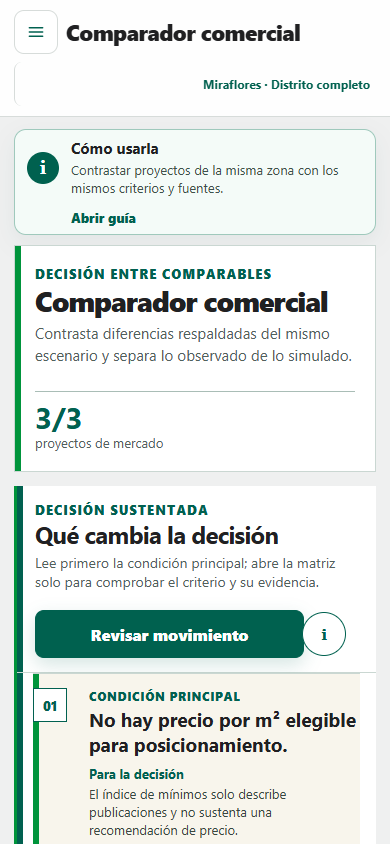
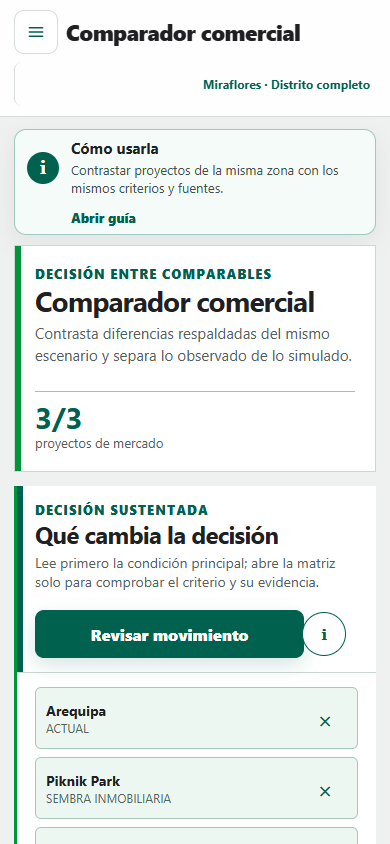
fix(phase7): close hierarchy and first-viewport gaps

diff --git a/prototipo_ejecutable/public/js/views/compare.js b/prototipo_ejecutable/public/js/views/compare.js
@@ -287,7 +287,10 @@ function comparisonGroup(group, model, summaries) {
   `;
 }
 
-function conclusionMarkup(model, { linksEnabled = true } = {}) {
+function conclusionMarkup(
+  model,
+  { linksEnabled = true, commandMarkup = "" } = {},
+) {
   return `
     <section
       class="comparison-conclusion"
@@ -316,6 +319,7 @@ function conclusionMarkup(model, { linksEnabled = true } = {}) {
               )
         }
       </div>
+      ${commandMarkup}
       <ol class="comparison-findings comparison-row-ledger">
         ${model.conclusion
           .map(
@@ -533,25 +537,7 @@ function comparisonHeader(benchmarkContext, model) {
   const targetAvailable = Boolean(benchmarkContext?.targetScenario);
   const targetIncluded = model.selected.some(({ simulated }) => simulated);
   const marketCount = model.selected.filter(({ simulated }) => !simulated).length;
-  return `
-    <header class="comparison-hero">
-      <div>
-        <span class="comparison-eyebrow">Decisión entre comparables</span>
-        <h1>Comparador comercial</h1>
-        <p>
-          Contrasta diferencias respaldadas del mismo escenario y separa lo observado de lo simulado.
-        </p>
-      </div>
-      <div class="comparison-hero__status" aria-label="Estado de la selección">
-        <strong>${formatNumber(marketCount)}/${MAX_SELECTED}</strong>
-        <span>proyectos de mercado</span>
-      </div>
-    </header>
-    ${
-      model.status === "ready"
-        ? conclusionMarkup(model)
-        : ""
-    }
+  const commandMarkup = `
     <section class="comparison-command" aria-label="Selección de proyectos">
       <div>
         ${selectedChips(model)}
@@ -581,6 +567,26 @@ function comparisonHeader(benchmarkContext, model) {
         })}
       </div>
     </section>
+  `;
+  return `
+    <header class="comparison-hero">
+      <div>
+        <span class="comparison-eyebrow">Decisión entre comparables</span>
+        <h2>Comparador comercial</h2>
+        <p>
+          Contrasta diferencias respaldadas del mismo escenario y separa lo observado de lo simulado.
+        </p>
+      </div>
+      <div class="comparison-hero__status" aria-label="Estado de la selección">
+        <strong>${formatNumber(marketCount)}/${MAX_SELECTED}</strong>
+        <span>proyectos de mercado</span>
+      </div>
+    </header>
+    ${
+      model.status === "ready"
+        ? conclusionMarkup(model, { commandMarkup })
+        : commandMarkup
+    }
     ${denominatorMarkup(benchmarkContext, model)}
   `;
 }
@@ -593,7 +599,7 @@ function unavailableMarkup(status, benchmarkContext) {
   return `
     <section class="comparison-unavailable" data-comparison-status="${escapeAttr(status)}">
       <span class="comparison-eyebrow">Comparador comercial</span>
-      <h1>${isLegacy ? "Comparador no disponible para esta versión de datos" : "No se pudo construir una comparación segura"}</h1>
+      <h2>${isLegacy ? "Comparador no disponible para esta versión de datos" : "No se pudo construir una comparación segura"}</h2>
       <p>${escapeHtml(description)}</p>
       ${
         benchmarkContext?.errorCodes?.length

diff --git a/prototipo_ejecutable/public/js/views/market.js b/prototipo_ejecutable/public/js/views/market.js
@@ -939,15 +939,14 @@ export function renderMarket() {
   const statusMeta = benchmarkStatus(benchmark?.status);
   const thesis = benchmarkAvailable
     ? quantitative.n > 0
-      ? `${districtName(district)} tiene ${formatNumber(benchmark.scope.projectCount)} comparables; ${formatNumber(quantitative.n)} sostienen una referencia elegible por m² de área total.`
+      ? `${districtName(district)}: ${formatNumber(benchmark.scope.projectCount)} comparables; ${formatNumber(quantitative.n)} sostienen una referencia elegible por m².`
       : quantitative.orientative.n > 0
-        ? `${districtName(district)} tiene ${formatNumber(benchmark.scope.projectCount)} comparables; ${formatNumber(quantitative.orientative.n)} permiten un índice orientativo de entrada, pero la pareja precio–área no está demostrada a nivel de unidad.`
+        ? `${districtName(district)} tiene ${formatNumber(benchmark.scope.projectCount)} comparables; ${formatNumber(quantitative.orientative.n)} permiten un índice orientativo.`
         : `${districtName(district)} tiene ${formatNumber(benchmark.scope.projectCount)} comparables, pero no dispone de pares precio–área demostrados ni referencias orientativas utilizables.`
     : null;
 
   return `
     <section class="dashboard-grid market-reading benchmark-view" data-scenario-consumer="benchmark">
-      ${renderScaleLedger()}
       ${
         benchmarkAvailable
           ? `
@@ -1007,6 +1006,8 @@ export function renderMarket() {
           `
           : renderBenchmarkUnavailable(benchmark, district)
       }
+
+      ${renderScaleLedger()}
 
       <details class="benchmark-territory span-12">
         <summary>

diff --git a/prototipo_ejecutable/public/js/views/inspector.js b/prototipo_ejecutable/public/js/views/inspector.js
@@ -1747,7 +1747,7 @@ function renderUnavailable(model) {
     <section class="inspector-view inspector-unavailable" data-inspector-state="unavailable">
       <p class="inspector-breadcrumb">Viva Inteligencia / Evidencia</p>
       <span class="inspector-kicker">Custodia de datos</span>
-      <h1>Inspector de evidencia</h1>
+      <h2>Inspector de evidencia</h2>
       <p>Contrasta fuentes y decide qué datos pueden usarse en la comparación.</p>
       <div class="inspector-notice" role="status">
         <strong>Inspector no disponible</strong>
@@ -1778,7 +1778,7 @@ export function renderInspectorModel(model) {
         <div class="inspector-intro-copy">
           <p class="inspector-breadcrumb">Viva Inteligencia / Evidencia</p>
           <span class="inspector-kicker">Custodia de datos</span>
-          <h1>Inspector de evidencia</h1>
+          <h2>Inspector de evidencia</h2>
           <p class="inspector-purpose">
             Contrasta fuentes y decide qué datos pueden usarse en la comparación.
           </p>

diff --git a/prototipo_ejecutable/public/js/views/activity.js b/prototipo_ejecutable/public/js/views/activity.js
@@ -99,8 +99,8 @@ export function renderActivity() {
     status,
     header,
     body: `
-      ${renderHistoryAgenda(context)}
       ${renderCurrentSignalBrief(context)}
+      ${renderHistoryAgenda(context)}
       ${renderHistoryFilters(context)}
       ${renderHistoryTimeline(context)}
       ${renderQualityBand(context)}
@@ -239,7 +239,7 @@ function renderCurrentSignalBrief(context) {
       </dl>
       <div class="history-signal-brief__handoff">
         <p><strong>Límite:</strong> un cambio publicado no permite afirmar precio de cierre, venta ni motivo comercial.</p>
-        <a class="primary-button history-decision-action" href="#assistant">Preparar decisión</a>
+        <a class="secondary-button history-decision-action" href="#assistant">Preparar decisión</a>
       </div>
     </section>
   `;

diff --git a/prototipo_ejecutable/public/styles/57-comparison.css b/prototipo_ejecutable/public/styles/57-comparison.css
@@ -46,7 +46,7 @@
   color: var(--comparison-deep);
 }
 
-.comparison-hero h1 {
+.comparison-hero h2 {
   max-width: 720px;
   margin-top: 4px;
   color: var(--comparison-ink);
@@ -1013,7 +1013,7 @@
   box-shadow: inset 8px 0 0 var(--comparison-danger);
 }
 
-.comparison-unavailable h1 {
+.comparison-unavailable h2 {
   max-width: 780px;
   font-size: clamp(30px, 5vw, 54px);
   letter-spacing: -0.04em;
@@ -1237,6 +1237,10 @@
 .comparison-hero { min-height: 0; padding-block: 20px; }
 .comparison-conclusion { border-left: 3px solid var(--comparison-green); }
 .comparison-decision-sheet { padding: 18px 24px; }
+.comparison-conclusion > .comparison-command {
+  border-inline: 0;
+  border-top: 0;
+}
 .comparison-findings.comparison-row-ledger {
   display: grid;
   gap: 0;

diff --git a/prototipo_ejecutable/public/styles/55-inspector.css b/prototipo_ejecutable/public/styles/55-inspector.css
@@ -48,7 +48,7 @@
   margin-bottom: 5px;
 }
 
-.inspector-intro h1 {
+.inspector-intro h2 {
   max-width: 720px;
   font-size: clamp(2rem, 3.7vw, 3.4rem);
   line-height: 0.98;
@@ -1399,7 +1399,7 @@
     padding-bottom: 14px;
   }
 
-  .inspector-intro h1 {
+  .inspector-intro h2 {
     font-size: 2rem;
   }
 
@@ -1659,7 +1659,7 @@
     padding-bottom: 8px;
   }
 
-  .inspector-intro h1 {
+  .inspector-intro h2 {
     font-size: clamp(1.9rem, 3vw, 2.35rem);
   }
 
@@ -1766,7 +1766,7 @@
 }
 
 @media (max-width: 620px) {
-  .inspector-intro h1 {
+  .inspector-intro h2 {
     font-size: clamp(1.75rem, 9vw, 2rem);
   }
 

diff --git a/prototipo_ejecutable/public/app.js b/prototipo_ejecutable/public/app.js
@@ -668,7 +668,10 @@ function render() {
   const route = parseHashRoute(window.location.hash);
   const isJourney = state.view === "journey";
   const showScenarioSummary =
-    !isJourney && !["dashboard", "projects", "compare"].includes(state.view);
+    !isJourney &&
+    !["dashboard", "projects", "market", "compare", "activity"].includes(
+      state.view,
+    );
   const scenarioPresentation = {
     ...buildScenarioPresentation({
       data: state.data,

diff --git a/prototipo_ejecutable/public/styles/58-history-signals.css b/prototipo_ejecutable/public/styles/58-history-signals.css
@@ -1229,9 +1229,9 @@
   }
 }
 
-/* Phase 7 · follow-up desk: agenda first, evidence after selection. */
+/* Phase 7 · follow-up desk: lectura breve primero, agenda inmediatamente después. */
 .history-view {
-  gap: 16px;
+  gap: 8px;
 }
 
 .history-hero {

diff --git a/.planning/phases/07-commercial-workspace/P7-10A-CORRECTIVE.md b/.planning/phases/07-commercial-workspace/P7-10A-CORRECTIVE.md
@@ -1,0 +1,30 @@
+# P7-10A — Corrección de jerarquía y primer viewport
+
+## Autorización
+
+P7-10A fue autorizada para cerrar los dos gaps P2 detectados por la verificación independiente P7-10, sin modificar datos, contratos ni motores.
+
+## Alcance ejecutado
+
+1. Se consolidó un único `h1` visible por superficie. Inspector y Comparador conservan el título canónico del shell y usan `h2` para su encabezado interno.
+2. Se simplificó la primera pantalla de Benchmark, Comparador y Seguimiento:
+   - Benchmark presenta primero la conclusión y la partición, y desplaza el contexto de escala a continuación.
+   - Comparador presenta primero la conclusión y ubica el control de selección dentro de ese bloque, antes del detalle.
+   - Seguimiento presenta primero la lectura de la señal y luego la agenda, con menor separación vertical.
+   - Los resúmenes territoriales redundantes de estas superficies se retiraron; el escenario permanece visible en el shell.
+3. La regresión responsive mide lectura y trabajo con `scrollY === 0`, antes de cualquier helper de foco o desplazamiento.
+4. Se añadió cobertura transversal para exigir exactamente un `h1` visible.
+
+## Resultado técnico
+
+- `npm.cmd run verify`: **PASS**.
+- P7 responsive: **PASS** en 14 superficies, tres viewports y zoom 200%.
+- Smoke: **PASS** en ocho rutas y tres viewports.
+- Accesibilidad: **PASS** en 14 superficies y tres viewports.
+- C01–C23, CT-A–I/P, compatibilidad 2.0–2.4, privacidad y determinismo: **PASS**.
+- Benchmark, Comparador y Seguimiento exponen lectura y trabajo dentro del primer viewport de 1280×720, medidos desde `scrollY = 0`.
+- Inspector y Comparador exponen un solo `h1` visible.
+
+## Límites preservados
+
+No se modificaron datasets, contratos públicos, writer, motores de benchmark/comparación/histórico/asistente ni workflows. La verificación formal P7-10 debe repetirse de forma independiente sobre el commit correctivo antes de cerrar el gate.
